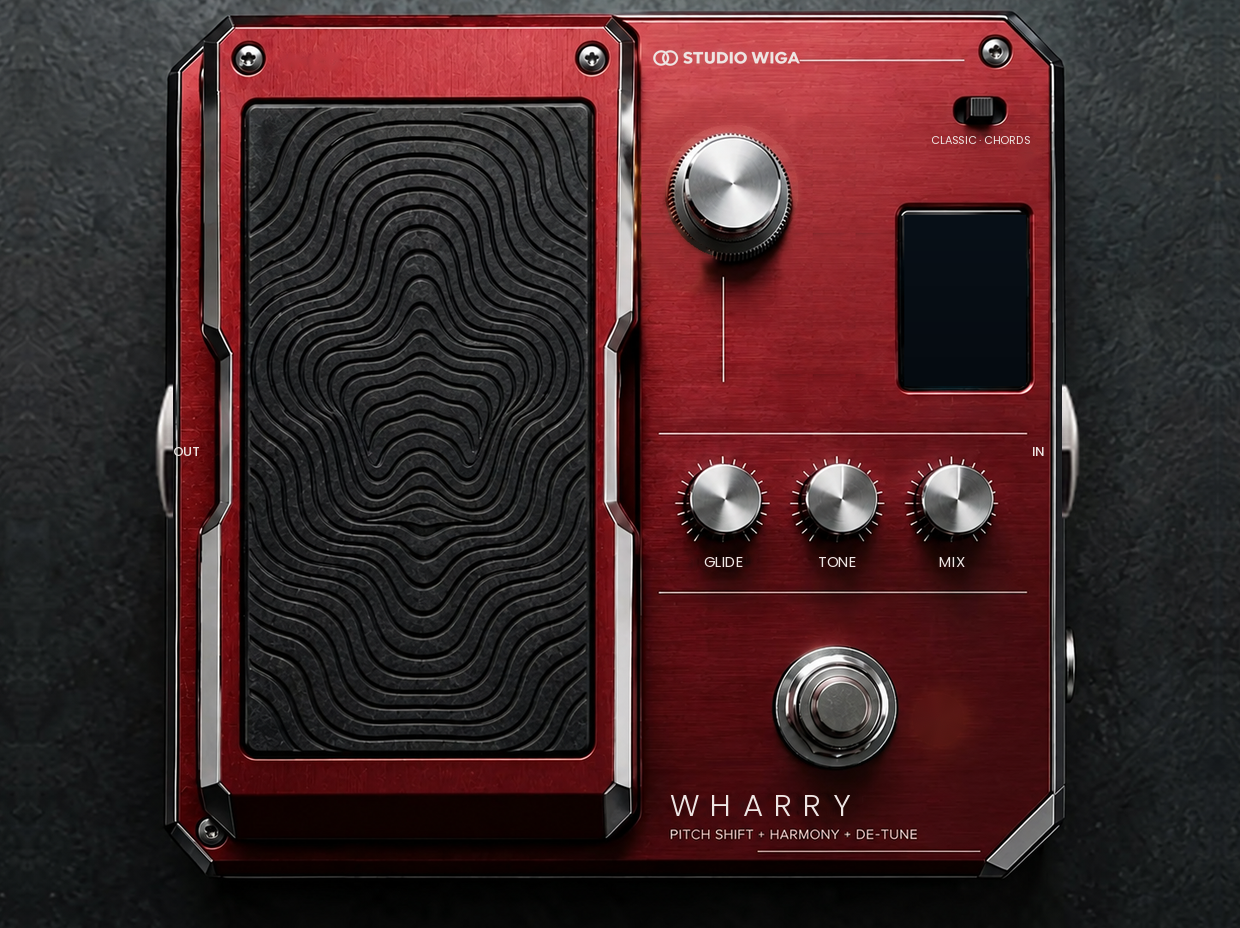
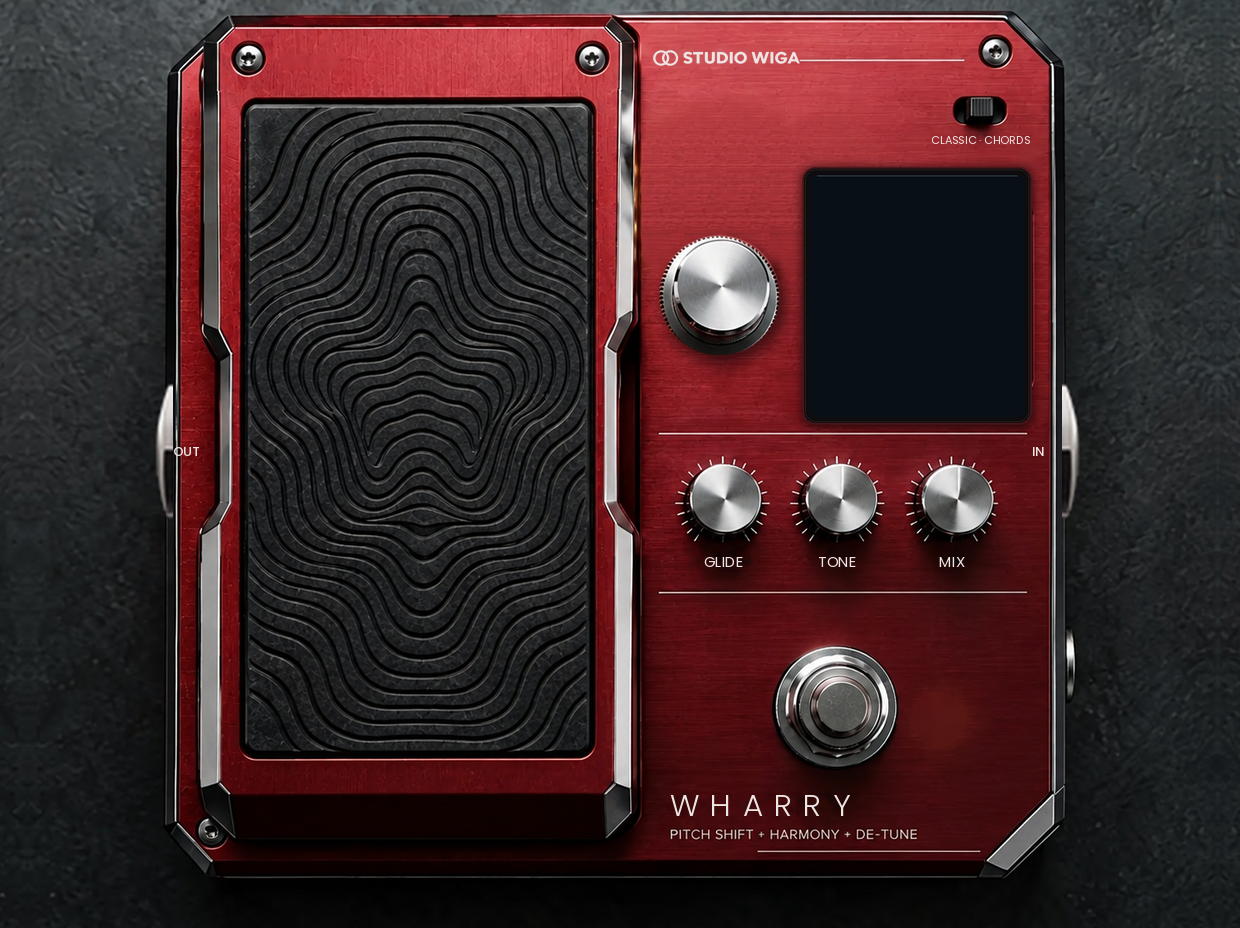
Wharry v1.3.0 : écran agrandi, sélecteur centré à gauche de l'écran
Claude-Session: https://claude.ai/code/session_018p7jtS7pR1FwGZkVP7SLek

Changed region(s): [[0.521, 0.125, 0.8581, 0.4688]]

diff --git a/tools/design_art.py b/tools/design_art.py
@@ -19,6 +19,14 @@ OX = (W - (CX1 - CX0) * S) / 2.0
 OY = 6.0
 def C(x, y): return (OX + (x - CX0) * S, OY + (y - CY0) * S)
 
+# ---------- 0) éléments déplacés ----------
+KNOB_OLD, KNOB_NEW, KNOB_RS = (821, 258), (808, 378), 76          # sélecteur : centré verticalement sur l'écran, à sa gauche
+SCR_OUT = (905, 228, 1172, 528)                                   # écran agrandi (cadre extérieur)
+kyy, kxx = np.mgrid[0:2 * KNOB_RS, 0:2 * KNOB_RS]
+ka = np.clip((KNOB_RS - 5.0 - np.hypot(kxx - KNOB_RS + 0.5, kyy - KNOB_RS + 0.5)) / 2.0, 0, 1)
+knob_rgb = A[KNOB_OLD[1] - KNOB_RS:KNOB_OLD[1] + KNOB_RS, KNOB_OLD[0] - KNOB_RS:KNOB_OLD[0] + KNOB_RS]
+knob_sprite = np.dstack([knob_rgb, (ka * 255).astype(np.uint8)])
+
 # ---------- 1) nettoyage (inpainting) ----------
 mask = np.zeros(A.shape[:2], np.uint8)
 def text_mask(x0, y0, x1, y1, thr=40, grow=2):
@@ -58,12 +66,13 @@ inpainted = cv2.inpaint(A, mask, 6, cv2.INPAINT_TELEA)
 ZX0, ZY0, ZX1, ZY1 = 717, 140, 1016, 515
 yy3, xx3 = np.mgrid[ZY0:ZY1, ZX0:ZX1]
 rk = np.hypot(xx3 - 822, yy3 - 256)
-knob = rk < 78                                           # bouton + son socle (un peu plus bas que le chapeau)
-halo = (rk >= 78) & (rk < 93) & (yy3 < 292)               # reflet des anciennes LED autour du bouton (garde l'ombre portée du bas)
-zone_mask = ((mask[ZY0:ZY1, ZX0:ZX1] > 0) | halo) & ~knob
+knob = np.zeros_like(rk, bool)                           # l'ancien emplacement du sélecteur est entièrement refait
+oldk = rk < 96                                           # sélecteur d'origine + son ombre + reflets des LED
+vline = (np.abs(xx3 - 812) < 9) & (yy3 > 330) & (yy3 < 492)   # trait vertical sous le sélecteur d'origine
+zone_mask = (mask[ZY0:ZY1, ZX0:ZX1] > 0) | oldk | vline
 zone_mask = cv2.dilate(zone_mask.astype(np.uint8), np.ones((5, 5), np.uint8)).astype(bool) & ~knob
 Z = A[ZY0:ZY1, ZX0:ZX1].astype(np.float32)
-clean_px = ~zone_mask & ~(rk < 100) & (np.abs(xx3 - 813) > 4)
+clean_px = ~zone_mask & ~(rk < 104) & (np.abs(xx3 - 813) > 6)
 X = np.stack([xx3[clean_px], yy3[clean_px], np.ones(clean_px.sum())], 1).astype(np.float64)
 coef = np.linalg.lstsq(X, Z[clean_px].astype(np.float64), rcond=None)[0]
 plane = (np.stack([xx3, yy3, np.ones_like(xx3)], -1).astype(np.float64) @ coef).astype(np.float32)
@@ -77,11 +86,35 @@ soft[knob] = 0
 region = inpainted[ZY0:ZY1, ZX0:ZX1].astype(np.float32)
 inpainted[ZY0:ZY1, ZX0:ZX1] = (synth * soft + region * (1 - soft)).astype(np.uint8)
 
-# écran vidé : le plugin y dessine l'affichage
-SCR = (1024, 284, 1166, 484)
-h, w = SCR[3] - SCR[1], SCR[2] - SCR[0]
-yy = np.linspace(0, 1, h)[:, None, None]
-inpainted[SCR[1]:SCR[3], SCR[0]:SCR[2]] = np.broadcast_to(np.array([8, 16, 24]) * (1 - 0.3 * yy), (h, w, 3)).astype(np.uint8)
+# sélecteur recollé à sa nouvelle place, avec son ombre portée (lumière en haut à gauche)
+base = inpainted.astype(np.float32)
+R2 = KNOB_RS + 20
+cx, cy = KNOB_NEW
+shm = np.zeros(A.shape[:2], np.float32)
+cv2.circle(shm, (cx + 5, cy + 9), KNOB_RS - 4, 1.0, -1)
+shm = cv2.GaussianBlur(shm, (0, 0), 8) * 0.55
+base *= (1 - shm[..., None])
+spr = knob_sprite.astype(np.float32)
+sl = (slice(cy - KNOB_RS, cy + KNOB_RS), slice(cx - KNOB_RS, cx + KNOB_RS))
+al = spr[..., 3:4] / 255.0
+base[sl] = spr[..., :3] * al + base[sl] * (1 - al)
+inpainted = np.clip(base, 0, 255).astype(np.uint8)
+
+# écran agrandi : cadre noir en creux + vitre (le plugin dessine l'affichage dans la vitre)
+scr_img = Image.fromarray(inpainted)
+sd = ImageDraw.Draw(scr_img, "RGBA")
+x0, y0, x1, y1 = SCR_OUT
+shadow = Image.new("L", scr_img.size, 0); ImageDraw.Draw(shadow).rounded_rectangle((x0 - 2, y0 - 1, x1 + 3, y1 + 5), 16, fill=170)
+shadow = shadow.filter(ImageFilter.GaussianBlur(5))
+scr_img = Image.composite(Image.new("RGB", scr_img.size, (25, 4, 6)), scr_img, shadow)
+sd = ImageDraw.Draw(scr_img, "RGBA")
+sd.rounded_rectangle((x0, y0, x1, y1), 15, fill=(14, 12, 13), outline=(70, 22, 26), width=2)
+sd.rounded_rectangle((x0 + 3, y0 + 3, x1 - 3, y1 - 3), 13, outline=(36, 32, 34), width=1)
+G = 9
+sd.rounded_rectangle((x0 + G, y0 + G, x1 - G, y1 - G), 9, fill=(8, 15, 22))
+sd.line((x0 + G + 8, y0 + G + 1, x1 - G - 8, y0 + G + 1), fill=(120, 130, 140, 120), width=1)   # reflet sur la vitre
+inpainted = np.array(scr_img)
+SCR = (x0 + G, y0 + G, x1 - G, y1 - G)
 clean = Image.fromarray(inpainted)
 
 # ---------- 2) mise à l'échelle sur le fond ----------
@@ -156,7 +189,7 @@ sprite(TG, "toggle_r.png"); sprite(TG, "toggle_l.png", flip=True)
 with open(os.path.join(ROOT, "tools", "layout.txt"), "w") as fo:
     def P(n, x, y): px, py = C(x, y); fo.write(f"{n} {px:.1f} {py:.1f}\n")
     for i, (x, y) in enumerate(LEDS): P(f"led{i}", x, y)
-    P("knob", 822, 250); fo.write(f"knobR {70 * S:.1f} capR {52 * S:.1f}\n")
+    P("knob", KNOB_NEW[0] + 1, KNOB_NEW[1] - 8); fo.write(f"knobR {70 * S:.1f} capR {52 * S:.1f}\n")
     for n, (x, y) in (("glide", (813, 615)), ("tone", (946, 615)), ("mix", (1080, 612))): P(n, x, y)
     fo.write(f"smallR {48 * S:.1f} smallCapR {37 * S:.1f}\n")
     P("screen0", SCR[0], SCR[1]); P("screen1", SCR[2], SCR[3])

diff --git a/PluginEditor.cpp b/PluginEditor.cpp
@@ -13,11 +13,11 @@ namespace
 
     // ---- emplacements des commandes dans le repère 1240 x 928 (générés par tools/design_art.py -> tools/layout.txt) ----
     constexpr float kLedR = 6.4f;
-    const Point<float> kKnob (731.3f, 185.8f);  constexpr float kKnobR = 59.9f, kCapR = 44.5f;   // sélecteur 21 crans
+    const Point<float> kKnob (720.2f, 288.5f);  constexpr float kKnobR = 59.9f, kCapR = 44.5f;   // sélecteur 21 crans
     const Point<float> kSmall[3] = { { 723.6f, 498.2f }, { 837.4f, 498.2f }, { 952.1f, 495.6f } };   // GLIDE, TONE, MIX
     constexpr float kSmallR = 41.1f, kSmallCapR = 31.7f;
     const char* const kSmallId[3] = { "smooth", "tone", "mix" };
-    const Rectangle<float> kScreen (904.2f, 214.9f, 121.5f, 171.2f);
+    const Rectangle<float> kScreen (810.0f, 174.6f, 213.2f, 241.4f);
     const Rectangle<float> kFs (770.7f, 642.9f, 130.1f, 130.1f);          // footswitch ON / OFF
     const Point<float> kFsLed (937.6f, 719.0f);
     const Rectangle<float> kToggle (953.8f, 91.6f, 53.1f, 37.7f);       // inverseur CLASSIC / CHORDS
@@ -451,7 +451,7 @@ private:
     // écran : mode / état, famille + numéro, programmes voisins et programme choisi, décalage en direct, barres de course
     void drawScreen (Graphics& g)
     {
-        const auto sc = r (kScreen).reduced (3.0f * s);
+        const auto sc = r (kScreen);
         g.setColour (kScreenBg); g.fillRoundedRectangle (sc, 4.0f * s);
         const int cur = jlimit (0, wharry::kNumPrograms - 1, drawnProgram);
         const auto& pr = wharry::program (cur);
